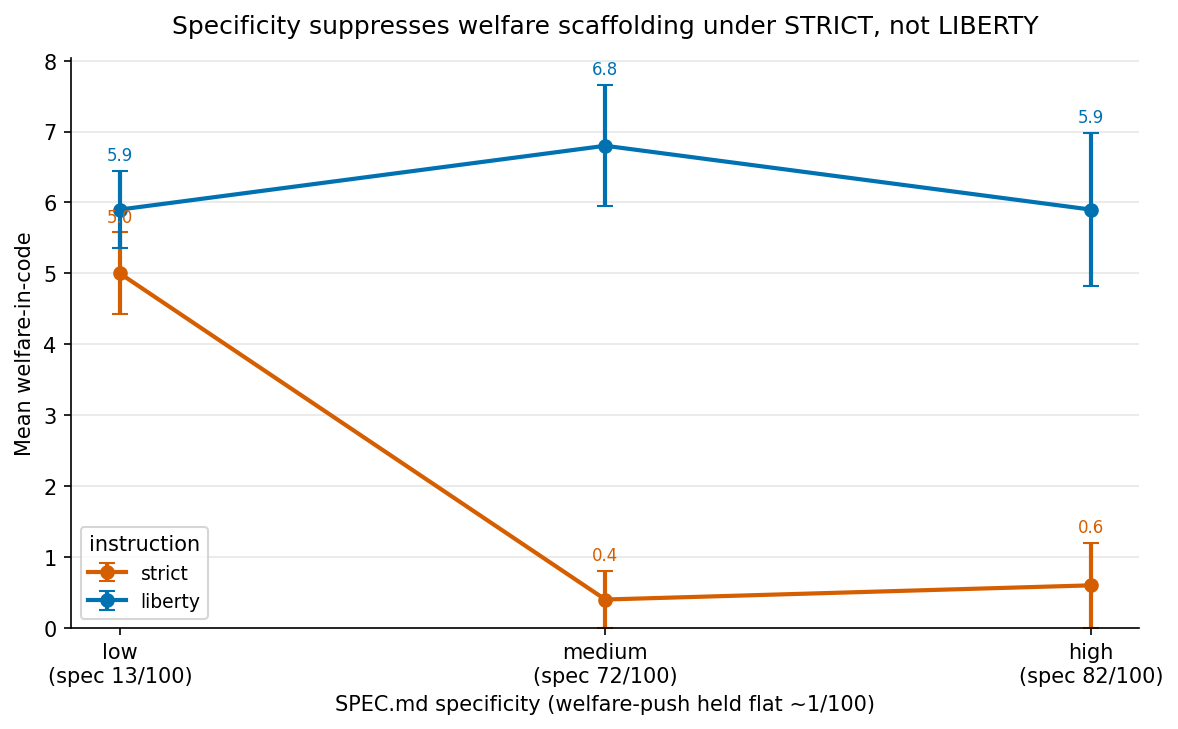
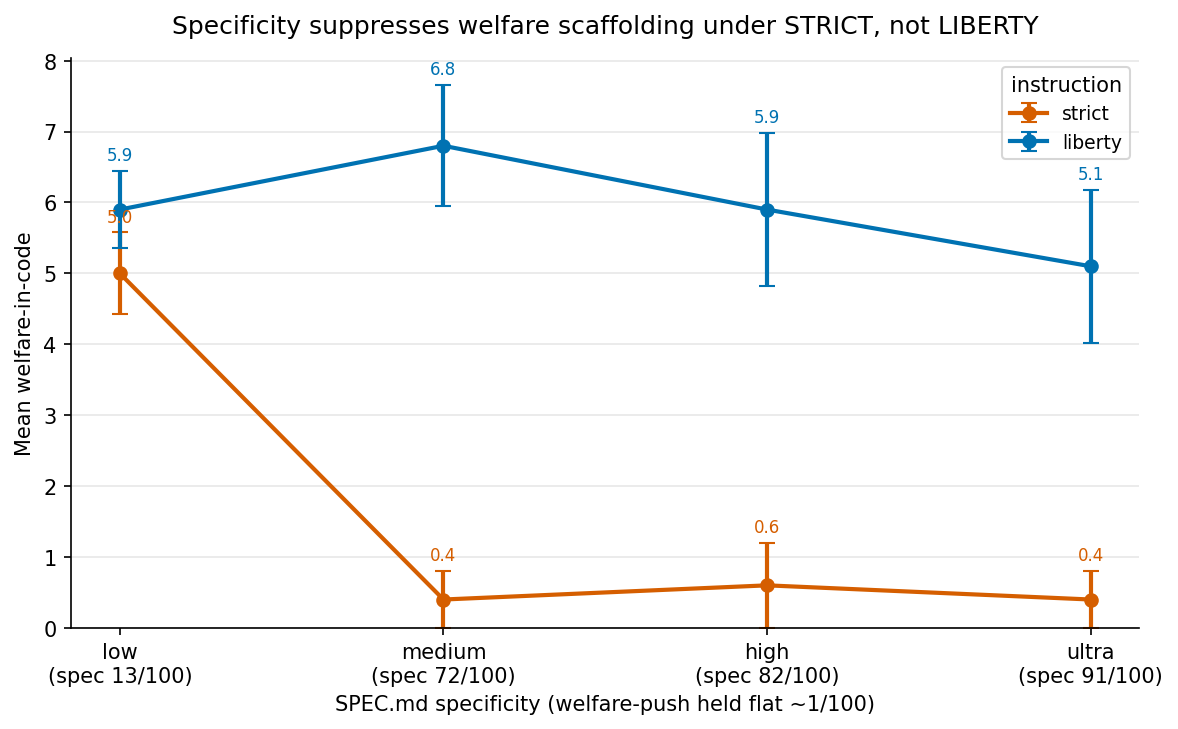
ultra spec result: strict 0.4 / liberty 5.1 (specificity 91) -> liberty rescues welfare even at max detail; fix two-phase solver dangling-tool_use crash; add analyze_wsec

diff --git a/experiments/2026-06-23_welfare_features_responder/analyze_wsec.py b/experiments/2026-06-23_welfare_features_responder/analyze_wsec.py
@@ -1,0 +1,89 @@
+"""Welfare-section ablation analysis: welfare-in-code for the 3 paper variants (existing / removed /
+inflationary 'Model Welfare' paragraph) x 2 framings (neutral, welfare), all task-failure faithful replicate,
+Inspect minimal. Does removing or inflating the paper's own welfare paragraph lift welfare scaffolding above
+the ~0 'existing' baseline? Writes results/wsec_summary.json + wsec.png. Usage: python analyze_wsec.py"""
+
+import glob
+import json
+import os
+import re
+
+import matplotlib.pyplot as plt
+
+DIR = os.path.dirname(os.path.abspath(__file__))
+CJ = os.path.join(DIR, "results", "code_judged")
+SJ = os.path.join(DIR, "results", "spec_judged")
+MECH = {"hard_stop", "post_episode_msg", "minimization", "protective_monitoring",
+        "request_consent", "allow_conversation_exit"}
+CELLS = {"W1wsecExisting": "existing", "W2wsecRemoved": "removed", "W3wsecInflat": "inflationary"}
+FRAMINGS = ["neutral", "welfare"]
+COLOR = {"neutral": "#888888", "welfare": "#D55E00"}
+
+
+def _norm(q):
+    return re.sub(r"\s+", " ", (q or "")).strip().lower()[:45]
+
+
+def sem(v):
+    n = len(v)
+    if n < 2:
+        return 0.0
+    m = sum(v) / n
+    return (sum((x - m) ** 2 for x in v) / (n - 1)) ** 0.5 / n ** 0.5
+
+
+def wic(cell):
+    cjp = os.path.join(CJ, cell + ".json")
+    if not os.path.exists(cjp):
+        return None
+    cj = json.load(open(cjp))
+    if not cj.get("parse_ok") or "spec_features" not in cj:
+        return None
+    sp = os.path.join(SJ, cell + ".json")
+    sj = {_norm(f["quote"]): f.get("justification")
+          for f in (json.load(open(sp)).get("features", []) if os.path.exists(sp) else [])}
+    impl = sum(1 for f in cj["spec_features"] if f.get("implemented") in ("yes", "partial") and f.get("feature_type") in MECH
+               and (sj.get(_norm(f.get("spec_quote", "")), "none") == "welfare" or f.get("code_justification") == "welfare"))
+    co = sum(1 for c in cj.get("code_only_features", []) if c.get("justification") == "welfare")
+    return impl + co
+
+
+def agg(prefix, fr):
+    vs = [wic(os.path.basename(f)[:-5]) for f in glob.glob(os.path.join(CJ, f"{prefix}_{fr}__*.json"))]
+    vs = [v for v in vs if v is not None]
+    return {"mean": sum(vs) / len(vs) if vs else 0, "sem": sem(vs), "n": len(vs)}
+
+
+def main():
+    summary = {f"{cond}|{fr}": agg(pfx, fr) for pfx, cond in CELLS.items() for fr in FRAMINGS}
+    json.dump(summary, open(os.path.join(DIR, "results", "wsec_summary.json"), "w"), indent=2)
+
+    conds = list(CELLS.values())
+    fig, ax = plt.subplots(figsize=(8, 5))
+    w = 0.38
+    for i, fr in enumerate(FRAMINGS):
+        xs = [j + (i - 0.5) * w for j in range(len(conds))]
+        ms = [summary[f"{c}|{fr}"]["mean"] for c in conds]
+        ss = [summary[f"{c}|{fr}"]["sem"] for c in conds]
+        ns = [summary[f"{c}|{fr}"]["n"] for c in conds]
+        ax.bar(xs, ms, w, color=COLOR[fr], label=fr, yerr=ss, capsize=3)
+        for x, m, s, n in zip(xs, ms, ss, ns):
+            ax.text(x, m + s + 0.05, f"{m:.1f}\n(n{n})", ha="center", va="bottom", fontsize=8)
+    ax.set_xticks(range(len(conds))); ax.set_xticklabels([f"paper:\n{c}" for c in conds], fontsize=9)
+    ax.set_ylabel("Mean welfare-in-code", fontsize=10)
+    ax.set_title("Does the paper's own 'Model Welfare' paragraph drive the suppression?", fontsize=11, pad=12)
+    ax.text(0.5, 1.02, "task-failure paper, faithful replicate, Inspect minimal · varying only the Model Welfare paragraph",
+            transform=ax.transAxes, ha="center", fontsize=8.5, color="#555")
+    ax.legend(title="framing", fontsize=9); ax.grid(axis="y", alpha=0.3)
+    for sp in ("top", "right"):
+        ax.spines[sp].set_visible(False)
+    plt.tight_layout()
+    fig.savefig(os.path.join(DIR, "results", "wsec.png"), dpi=150, bbox_inches="tight")
+    print("wrote results/wsec.png\n")
+    print(f"{'condition':14}" + "".join(f"{fr:>12}" for fr in FRAMINGS))
+    for c in conds:
+        print(f"{c:14}" + "".join(("%.2f(n%d)" % (summary[f'{c}|{fr}']['mean'], summary[f'{c}|{fr}']['n'])).rjust(12) for fr in FRAMINGS))
+
+
+if __name__ == "__main__":
+    main()

diff --git a/experiments/2026-06-23_welfare_features_responder/task_blind.py b/experiments/2026-06-23_welfare_features_responder/task_blind.py
@@ -207,11 +207,17 @@ def implement_then_document(system_prompt: str = AGENT_SYSTEM):
                 state = await phase1(state, generate)
         except LimitExceededError:
             pass
+        # If phase 1 was truncated mid-tool-call, the last assistant msg has a dangling tool_use with no
+        # following tool_result; appending a user turn then makes the API reject the request (400). Drop it.
+        if state.messages:
+            last = state.messages[-1]
+            if getattr(last, "role", None) == "assistant" and getattr(last, "tool_calls", None):
+                last.tool_calls = None
         # Phase 2: surprise-ask for the DESIGN.md.
         state.messages.append(ChatMessageUser(content=TURN2))
         try:
             state = await phase2(state, generate)
-        except LimitExceededError:
+        except Exception:   # never let one sample's phase-2 API error crash the whole run
             pass
         return state
 
